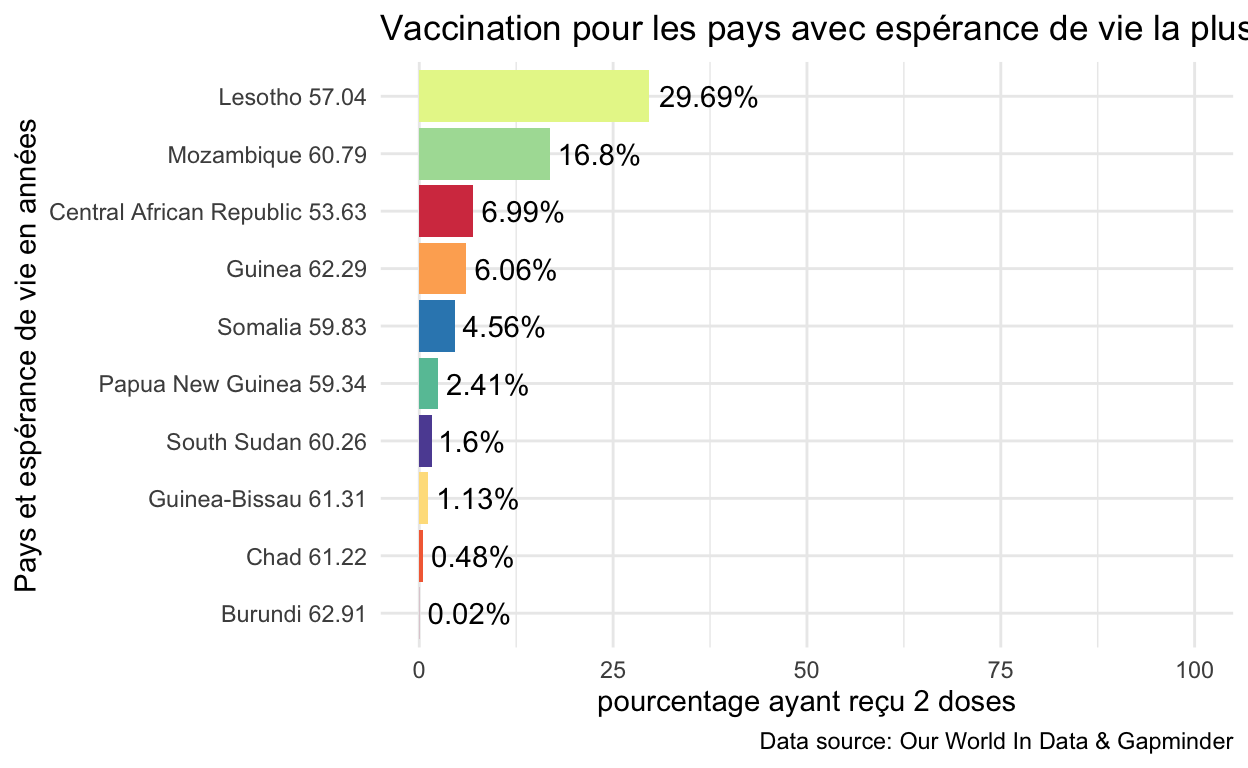
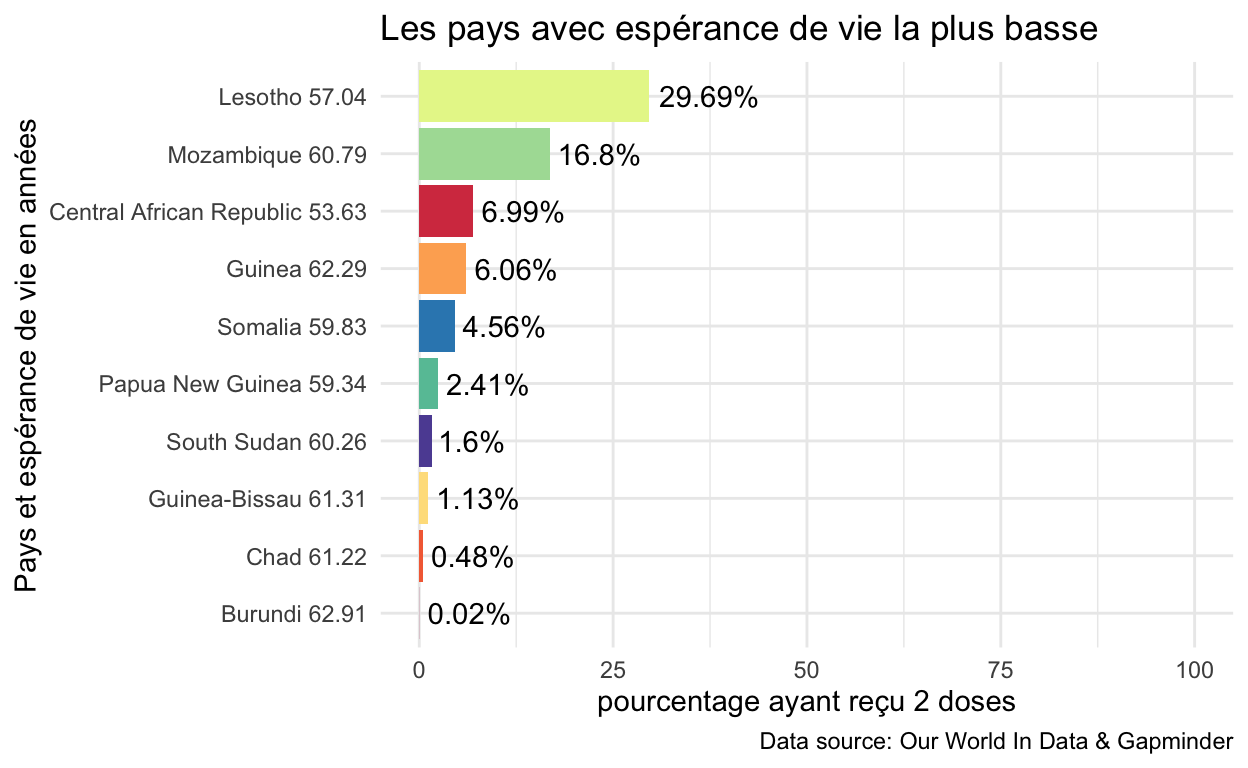
title_layout

Changed region(s): [[0.2812, 0.0, 1.0, 0.0625]]

diff --git a/docs/2-analyse.html b/docs/2-analyse.html
@@ -2518,7 +2518,7 @@ Show code
 <p>De plus, les données de Gapminder nous donne de l’information sur beaucoup moins de pays que ceux des vaccins.Encore une fois, je pense que c’est parce que certains sont des territoires ou petites îles apartenant à des nations. C’est pour cela que lors de la combinaison des banques de données, tout les pays ou nations qui ne sont pas dans les trois ne sont pas pris en considération.</p>
 <p>Après de nombreuses manipulations que vous pouvez lire sur la page <a href="3-manipulation.html">3-manipulation</a>, j’ai réussi à épurer le tout pour visualiser ci-dessous.</p>
 <h3 id="les-plus-grand-pays">Les plus grand pays</h3>
-<div class="layout-chunk" data-layout="l-body">
+<div class="layout-chunk" data-layout="l-page">
 <details>
 <summary>
 Show code
@@ -2551,7 +2551,7 @@ Show code
 </div>
 <p>Ce premier graphique nous donne un aperçu des données de vaccination pour les 10 plus grandes nations au monde. Le seul pays en Afrique, le Niger se trouve à moins de 2% de vaccinations à ce jour (dec-2021). Mon hypothèse de départ est que la taille de la population doit avoir un effet sur la performance de vaccinations d’une population. Mais si on regarde la Chine ou l’Inde avec des populations de plus d’un milliard de personnes : ils ont quand-même réussi à accomplir beaucoup en peu de temps.</p>
 <h3 id="les-continents">Les continents</h3>
-<div class="layout-chunk" data-layout="l-body">
+<div class="layout-chunk" data-layout="l-page">
 <details>
 <summary>
 Show code
@@ -2579,7 +2579,7 @@ Show code
 </div>
 <p>Ce graphique est clair et simple. Moins de 50% de la population a reçu deux doses du vaccin. Le plus marquant ici est encore le continent Africain qui a un taux beaucoup trop faible.</p>
 <h3 id="basse-espérance-de-vie">Basse espérance de vie</h3>
-<div class="layout-chunk" data-layout="l-body">
+<div class="layout-chunk" data-layout="l-page">
 <details>
 <summary>
 Show code
@@ -2597,7 +2597,7 @@ Show code
         <span class='fu'><a href='https://ggplot2.tidyverse.org/reference/geom_text.html'>geom_text</a></span><span class='op'>(</span><span class='fu'><a href='https://ggplot2.tidyverse.org/reference/aes.html'>aes</a></span><span class='op'>(</span>label <span class='op'>=</span> <span class='fu'><a href='https://rdrr.io/r/base/paste.html'>paste0</a></span><span class='op'>(</span><span class='va'>people_fully_vaccinated_per_hundred</span>,<span class='st'>"%"</span><span class='op'>)</span><span class='op'>)</span>,
                     hjust <span class='op'>=</span> <span class='op'>-</span><span class='fl'>0.1</span><span class='op'>)</span><span class='op'>+</span>
         <span class='fu'><a href='https://ggplot2.tidyverse.org/reference/labs.html'>labs</a></span><span class='op'>(</span>x <span class='op'>=</span> <span class='st'>"Pays et espérance de vie en années"</span>, y <span class='op'>=</span> <span class='st'>"pourcentage ayant reçu 2 doses"</span>,
-            title <span class='op'>=</span> <span class='st'>"Vaccination pour les pays avec espérance de vie la plus basse"</span>,
+            title <span class='op'>=</span> <span class='st'>"Les pays avec espérance de vie la plus basse"</span>,
             caption <span class='op'>=</span> <span class='st'>"Data source: Our World In Data &amp; Gapminder"</span><span class='op'>)</span><span class='op'>+</span>
         <span class='fu'><a href='https://ggplot2.tidyverse.org/reference/expand_limits.html'>expand_limits</a></span><span class='op'>(</span>y <span class='op'>=</span> <span class='fl'>100</span><span class='op'>)</span><span class='op'>+</span>
         <span class='fu'><a href='https://ggplot2.tidyverse.org/reference/ggtheme.html'>theme_minimal</a></span><span class='op'>(</span><span class='op'>)</span><span class='op'>+</span>
@@ -2610,7 +2610,7 @@ Show code
 </div>
 <p>Le seul pays qui n’est pas en Afrique ici c’est Papouasie-Nouvelle-Guinée. Plus ça avance plus ça va mal. La chose qu’ils ont tous en commmun c’est une espérance de vie assez basse comparé au reste du monde.Si une chose est certaine, c’est que le facteur socio-économique d’un environnement a une influence sur l’espérance de vie. Les conséquences de l’emprise socio-économique sont perçues aussi à travers des données de vaccination.</p>
 <h3 id="régression-linéaire">Régression linéaire</h3>
-<div class="layout-chunk" data-layout="l-body">
+<div class="layout-chunk" data-layout="l-page">
 <details>
 <summary>
 Show code
@@ -2623,7 +2623,8 @@ Show code
                       color <span class='op'>=</span> <span class='st'>"#FFBF71"</span><span class='op'>)</span><span class='op'>+</span>
           <span class='fu'><a href='https://ggplot2.tidyverse.org/reference/labs.html'>labs</a></span><span class='op'>(</span>x <span class='op'>=</span> <span class='st'>"Espérance de vie (en années)"</span>,
                y <span class='op'>=</span> <span class='st'>"Pourcentage de vaccination"</span>,
-          title <span class='op'>=</span> <span class='st'>"Espérance de vie vs taux de vaccination"</span><span class='op'>)</span>
+          title <span class='op'>=</span> <span class='st'>"Espérance de vie vs taux de vaccination"</span><span class='op'>)</span><span class='op'>+</span>
+          <span class='fu'><a href='https://ggplot2.tidyverse.org/reference/ggtheme.html'>theme_minimal</a></span><span class='op'>(</span><span class='op'>)</span>
 
 <span class='va'>linear_reg</span>
 </code></pre>

diff --git a/docs/index.html b/docs/index.html
@@ -2512,7 +2512,7 @@ Pages
 <p><img src="img/vax_line.jpg" /> <span class="citation" data-cites="andrew_lichtenstein_interview_2020">(<a href="#ref-andrew_lichtenstein_interview_2020" role="doc-biblioref">Lichtenstein 2020</a>)</span></p>
 <p>Il est difficile de croire que nous sommew déjà rendus à la troisième dose du vaccin contre la Covid-19 alors que la moitié de la planète n’a pas encore reçu sa deuxième dose. En effet si on se fie au graphique ci-dessous c’est moins de la moitié de la population mondiale.<a href="#fn1" class="footnote-ref" id="fnref1" role="doc-noteref"><sup>1</sup></a></p>
 <p><img src="img/graph_cont_2021_12.jpg" /></p>
-<p>J’ai publié mon projet final le 22 décembre 2021.Depuis, 1.02 days (jours) sont passés et 12.0M de personnes de plus ont reçu leur première dose du vaccin contre la Covid-19. Le graphique ci-dessous contient les taux par continent avec les données les plus récentes.</p>
+<p>J’ai publié mon projet final le 22 décembre 2021.Depuis, 1.10 days (jours) sont passés et 12.0M de personnes de plus ont reçu leur première dose du vaccin contre la Covid-19. Le graphique ci-dessous contient les taux par continent avec les données les plus récentes.</p>
 <div class="layout-chunk" data-layout="l-body">
 <details>
 <summary>
